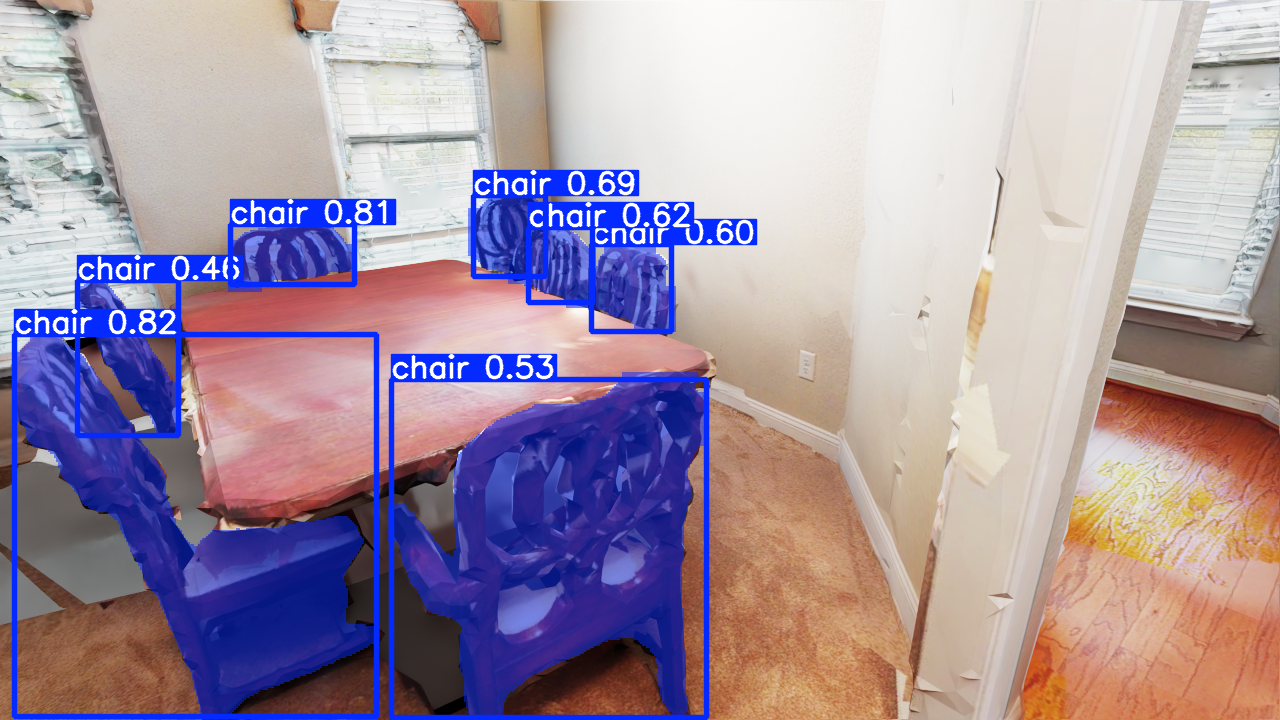
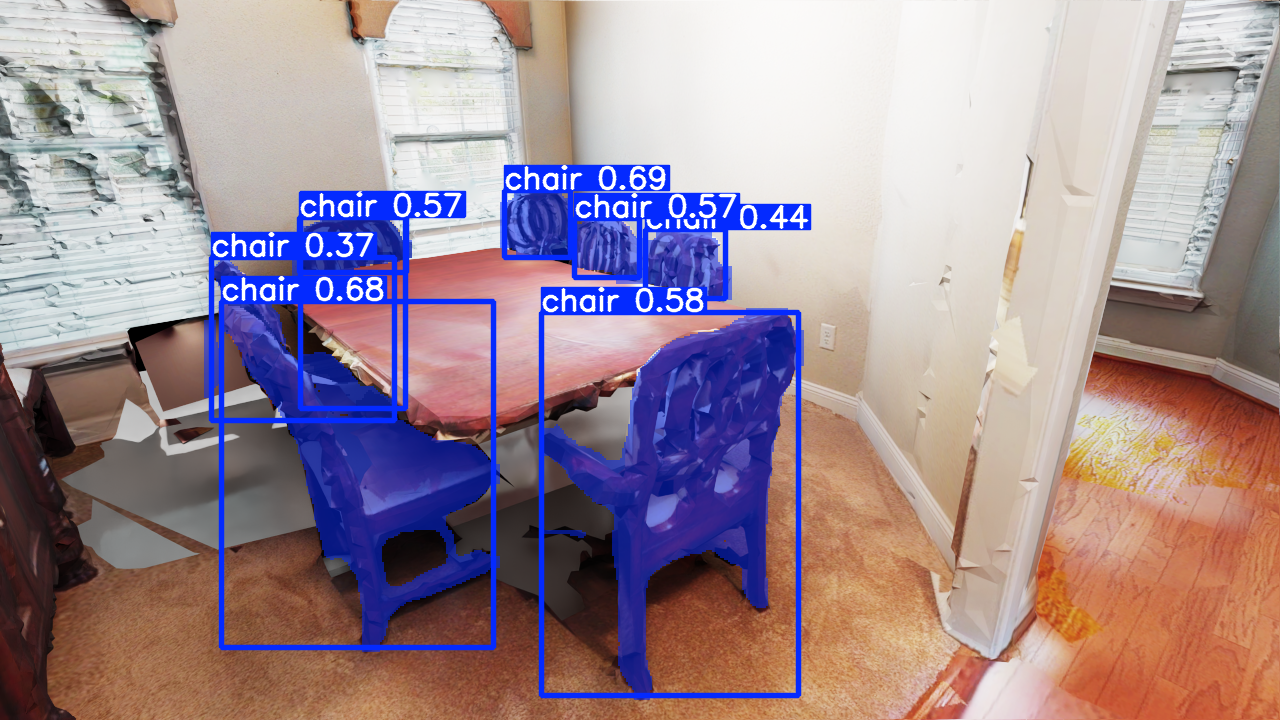
feat: Update evaluation configurations and metrics for episode 004

diff --git a/sage_evaluator/sage_evaluator/sage_evaluator/evaluator_dashboard_node.py b/sage_evaluator/sage_evaluator/sage_evaluator/evaluator_dashboard_node.py
@@ -184,7 +184,7 @@ class EvaluatorDashboard(Node):
             self.get_logger().info(f"Metrics for '{train_prompt}': {metrics.to_dict()}")
 
             # --- 5. Save per-prompt metrics JSON ---
-            self._save_prompt_metrics(train_prompt, metrics)
+            self._save_prompt_metrics(train_prompt, metrics, confidence)
 
         # --- 6. Save episode summary metrics ---
         self._save_summary_metrics()
@@ -306,12 +306,12 @@ class EvaluatorDashboard(Node):
         #     )
 
     # ------------------------------------------------------------
-    def _save_prompt_metrics(self, prompt, metrics: Metrics):
+    def _save_prompt_metrics(self, prompt, metrics: Metrics, confidence: float):
         """Save SR and SPL per prompt as JSON in its folder."""
         det_dir = os.path.join(self.episode_dir, "detections", prompt)
         os.makedirs(det_dir, exist_ok=True)
         with open(os.path.join(det_dir, "sr.json"), "w") as f:
-            json.dump({"SR": metrics.sr}, f, indent=2)
+            json.dump({"SR": metrics.sr, "confidence": confidence}, f, indent=2)
         with open(os.path.join(det_dir, "spl.json"), "w") as f:
             json.dump({"SPL": metrics.spl}, f, indent=2)
         self.get_logger().info(f"Saved per-prompt metrics for '{prompt}' → {det_dir}")

diff --git a/explorer_ws/src/sage_bt/sage_behaviour_tree/src/observe_graph_nodes.cpp b/explorer_ws/src/sage_bt/sage_behaviour_tree/src/observe_graph_nodes.cpp
@@ -404,8 +404,8 @@ BT::NodeStatus ObserveGraphNodes::onStart() {
 
     if (visibleNodes.empty()) {
         RCLCPP_INFO(node->get_logger(),
-                    ORANGE "[ObserveGraphNodes] No visible unobserved nodes → RUNNING." RESET);
-        return BT::NodeStatus::RUNNING;
+                    ORANGE "[ObserveGraphNodes] No visible unobserved nodes → SUCCESS." RESET);
+        return BT::NodeStatus::SUCCESS;
     }
 
     if (!spinCtrl->shouldTriggerSpin(robotPose, spinDistanceThreshold)) {

diff --git a/sage_evaluator/sage_evaluator/launch/evaluate.launch.py b/sage_evaluator/sage_evaluator/launch/evaluate.launch.py
@@ -11,7 +11,7 @@ import os
 SCENE = "00800-TEEsavR23oF"
 VERSION = "v1.7"
 PROMPT_SET = "train"
-EPISODE_ID = "003"
+EPISODE_ID = "004"
 
 def launch_setup(context, *args, **kwargs):
     """Function to evaluate LaunchConfiguration and create nodes"""
